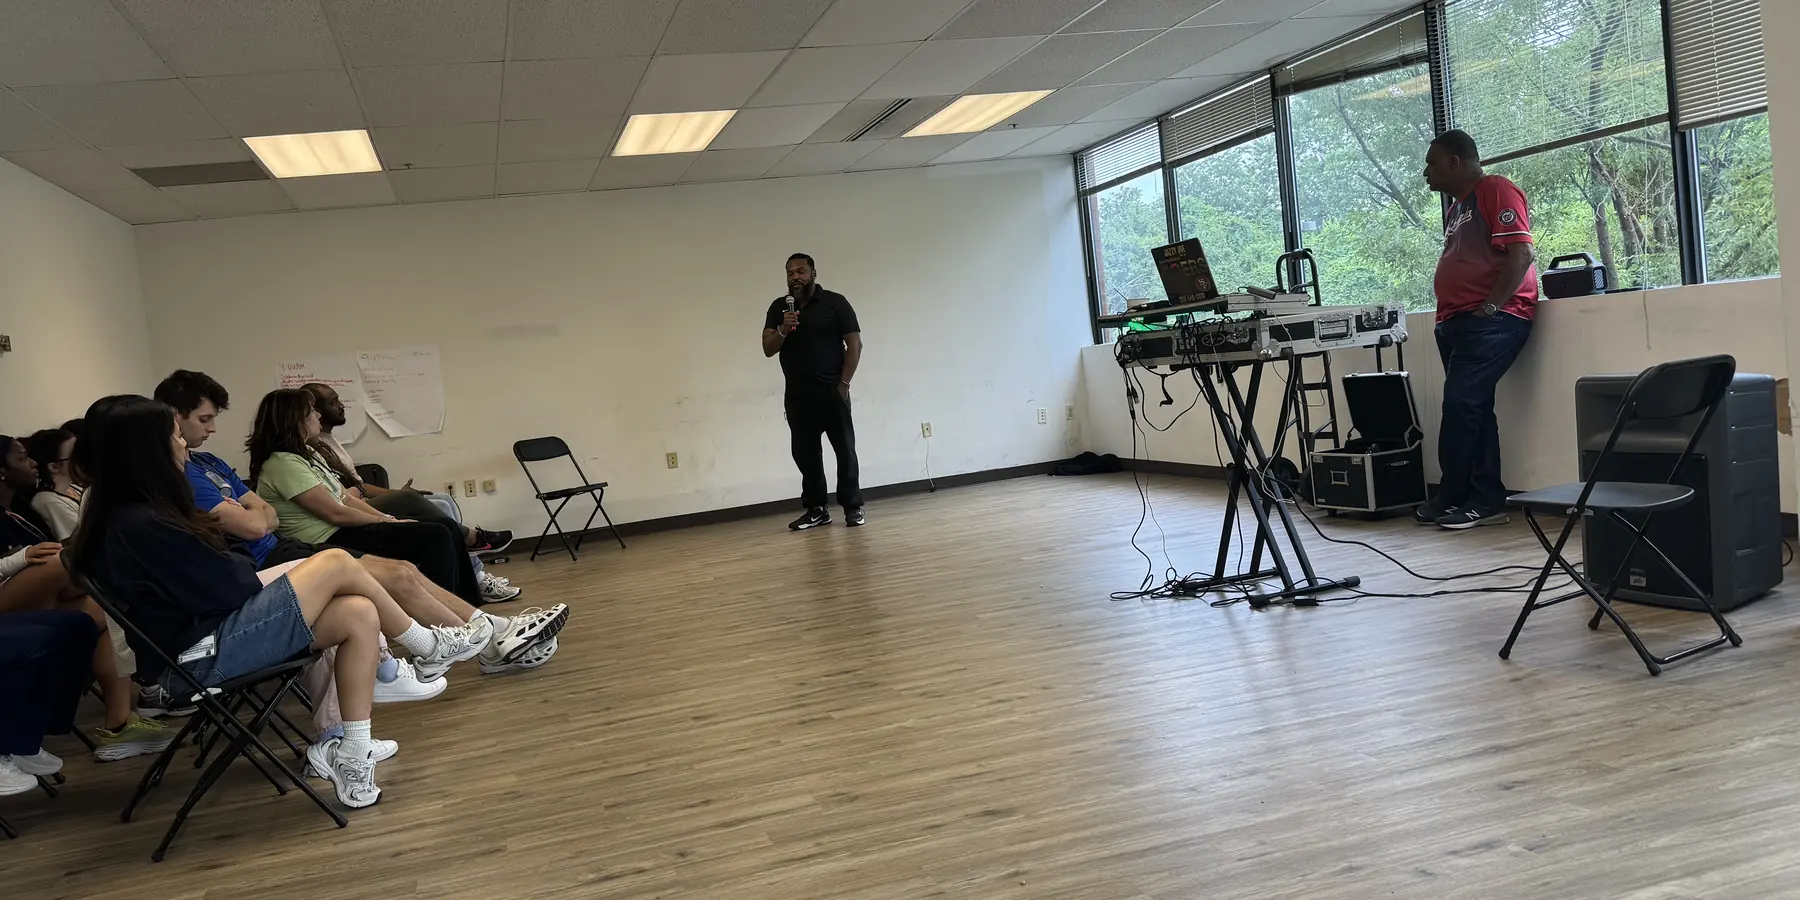
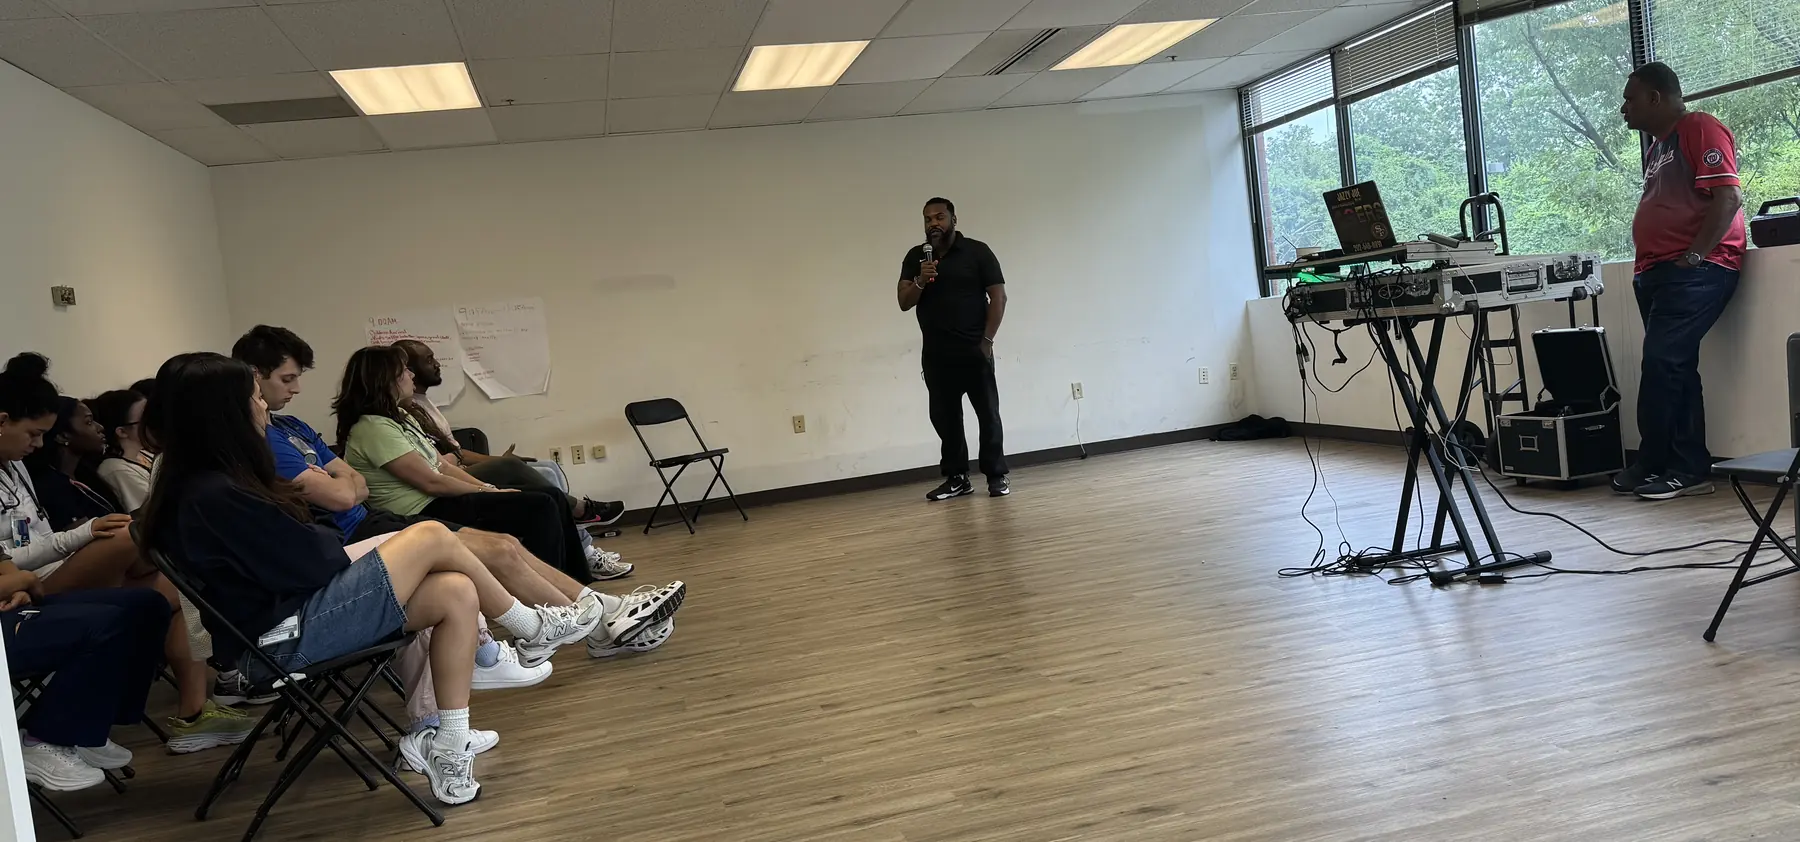
Crop Men's Health Day photo and correct its caption

diff --git a/src/app/programs/health-wellness-fitness/page.tsx b/src/app/programs/health-wellness-fitness/page.tsx
@@ -78,9 +78,9 @@ export default function HealthPage() {
         </div>
         <figure className="container-site mt-14 lg:mt-20" data-reveal>
           <div className="overflow-hidden rounded-[var(--radius-xl)]">
-            <Image src={mensHealthEvent} alt="A speaker with a microphone addressing seated attendees at a men's health event" placeholder="blur" sizes="(min-width:1280px) 1200px, 100vw" className="w-full" />
+            <Image src={mensHealthEvent} alt="A speaker with a microphone addressing seated attendees at Men's Health Day" placeholder="blur" sizes="(min-width:1280px) 1200px, 100vw" className="w-full" />
           </div>
-          <figcaption className="mt-3 text-sm text-ink-soft">A men&apos;s health event, June 2025.</figcaption>
+          <figcaption className="mt-3 text-sm text-ink-soft">Men&apos;s Health Day with community partners at Brightpoint Wellness Center, Landover, June 28, 2025.</figcaption>
         </figure>
       </section>
 

diff --git a/DESIGN.md b/DESIGN.md
@@ -132,3 +132,4 @@ Brand navy and blue are **sampled directly from the PGCCDC logo**. Gold adds war
 | 2026-11-03 | Spelling is Peterbug; no leadership or board photos; captions supplied for event photos | Corrected the board bio, kept monograms, updated the About gallery captions and added the captioned photos. |
 | 2026-11-03 | The photo opt-out covers profile photos only; remove the web address line from the collage | Removed the misspelled line and added the collage to the About page. |
 | 2026-11-10 | Rename to Medical Innovative Districts everywhere; remove the inaccurate waste-to-energy claim; new public phone number (voicemail); remove the video; keep NAIA content as is | Renamed the page, its address (old address redirects) and every mention, including the MID abbreviation; removed the Waste-to-Energy Power card and every 300-tons and clean-energy claim; updated the phone number site-wide; removed the video panel. |
+| 2026-11-10 | Men's health photo is from Men's Health Day on June 28, 2025; crop it, or use the flyer | Kept the real event photo (the flyer is for a past date, uses stock photos and has a QR code), cropped it tighter and corrected the caption to the date and venue from the flyer. |
